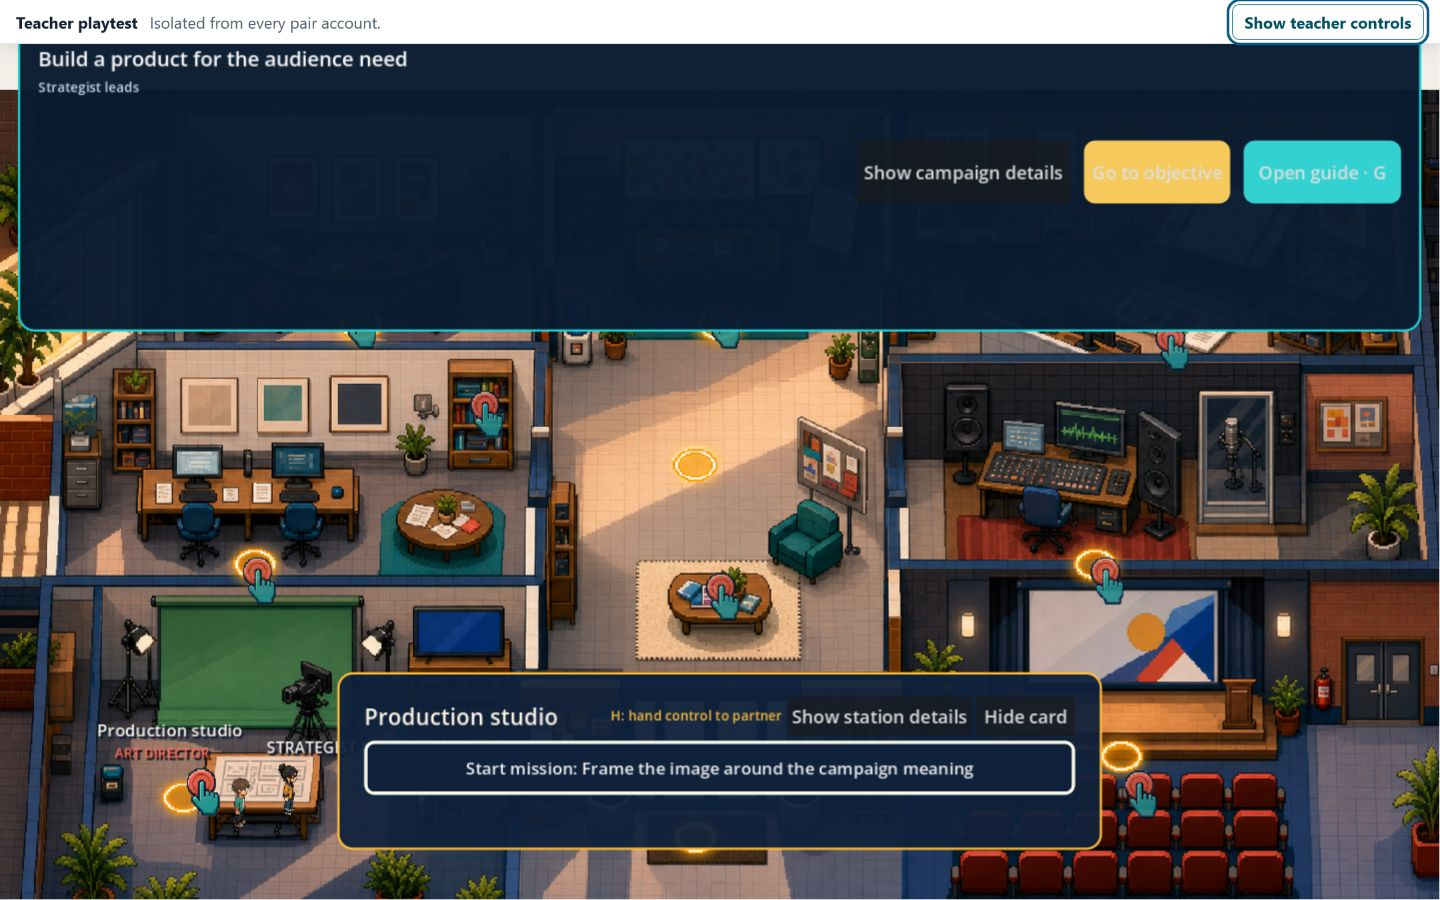
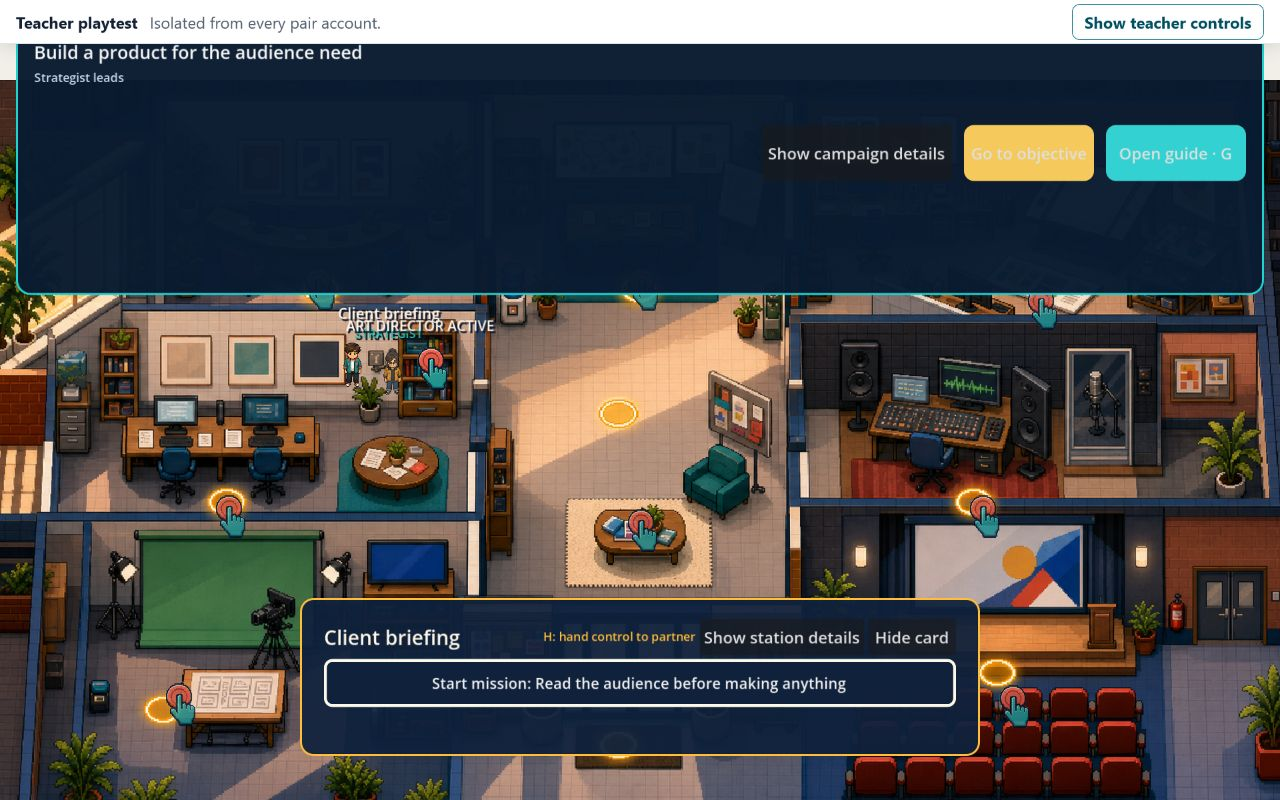
fix(godot): keep opener evidence truthful

diff --git a/web/src/teacher/teacher-playtest-controller.test.ts b/web/src/teacher/teacher-playtest-controller.test.ts
@@ -77,7 +77,7 @@ describe("TeacherPlaytestController", () => {
       const stripStyle = getComputedStyle(strip);
       const creatorStyle = getComputedStyle(creatorRoot);
       expect(stripStyle.position).toBe("fixed");
-      expect(stripStyle.top).toBe("12px");
+      expect(stripStyle.top).toBe("120px");
       expect(stripStyle.right).toBe("12px");
       expect(Number.parseInt(stripStyle.zIndex, 10)).toBeGreaterThan(
         Number.parseInt(creatorStyle.zIndex, 10)

diff --git a/web/src/teacher/teacher.css b/web/src/teacher/teacher.css
@@ -26,7 +26,7 @@ body:has([data-admarket-route="teacher-playtest"]) {
 
 .teacher-playtest-strip {
   position: fixed;
-  top: 12px;
+  top: 120px;
   right: 12px;
   z-index: 300;
   display: flex;

diff --git a/godot/assets/agency/ASSET-SOURCES.md b/godot/assets/agency/ASSET-SOURCES.md
@@ -12,31 +12,41 @@ readable third-party advertising copy.
 These three PNGs are unchanged project-owned QA captures of the verified Godot
 web export, copied on 4 August 2026. The onboarding scene uses an `AtlasTexture`
 to omit the 44-pixel teacher-test strip at the top; the source PNG pixels were
-not edited, resized, recoloured or regenerated.
+not edited, resized, recoloured or regenerated. Each label describes only the
+state visible in its screenshot.
 
 ### `onboarding-brief.png`
 
-- Source: `C:\Godot Projects\Advertising Market Game QA\terra-audit-20260804\parent-harness-1440-world.png`
-- Dimensions: 1440 x 900 pixels
-- Scene crop: `Rect2(0, 44, 1440, 856)`
[1 lines of base64/hex data omitted]
+- Source: `C:\Godot Projects\Advertising Market Game QA\terra-audit-20260804\parent-harness-1280-client-briefing.png`
+- Dimensions: 1280 x 800 pixels
+- Scene crop: `Rect2(0, 44, 1280, 756)`
[1 lines of base64/hex data omitted]
 - Teaching use: labels the first whole-campaign stage, **Brief**
 
 ### `onboarding-build.png`
 
-- Source: `C:\Godot Projects\Advertising Market Game QA\terra-audit-20260804\parent-harness-1440-product-placed.png`
-- Dimensions: 1440 x 900 pixels
-- Scene crop: `Rect2(0, 44, 1440, 856)`
[1 lines of base64/hex data omitted]
-- Teaching use: labels the second whole-campaign stage, **Build**
+- Source: `C:\Godot Projects\Advertising Market Game QA\run-30822342945\mission-art-studio-1280x800.png`
+- Dimensions: 1280 x 800 pixels
+- Scene crop: `Rect2(0, 44, 1280, 756)`
[1 lines of base64/hex data omitted]
+- Teaching use: labels the current art-direction decision as part of **Build**;
+  this replaces the obsolete Studio capture containing `Step 5 of 19` and
+  `visible canvas change` copy
 
-### `onboarding-pitch.png`
+### `onboarding-approval.png`
 
 - Source: `C:\Godot Projects\Advertising Market Game QA\terra-audit-20260804\parent-harness-1280-mission-complete.png`
 - Dimensions: 1280 x 800 pixels
 - Scene crop: `Rect2(0, 44, 1280, 756)`
[1 lines of base64/hex data omitted]
-- Teaching use: labels the final whole-campaign stage, **Earn approval and pitch**
+- Teaching use: labels only the visible **Brief approved** state; this is not
+  represented as a pitch
+
+Pitch screenshot replacement: **OPEN**. A truthful replacement must be a
+current web-export capture at 1280 x 800 or 1440 x 900, must show the pair's
+advertisement presented in the pitch theatre, and must be captured before any
+mission-complete or approval modal obscures that evidence. No such capture was
+present in `C:\Godot Projects\Advertising Market Game QA` on 4 August 2026.
 
 ## `agency-floor.png`
 
